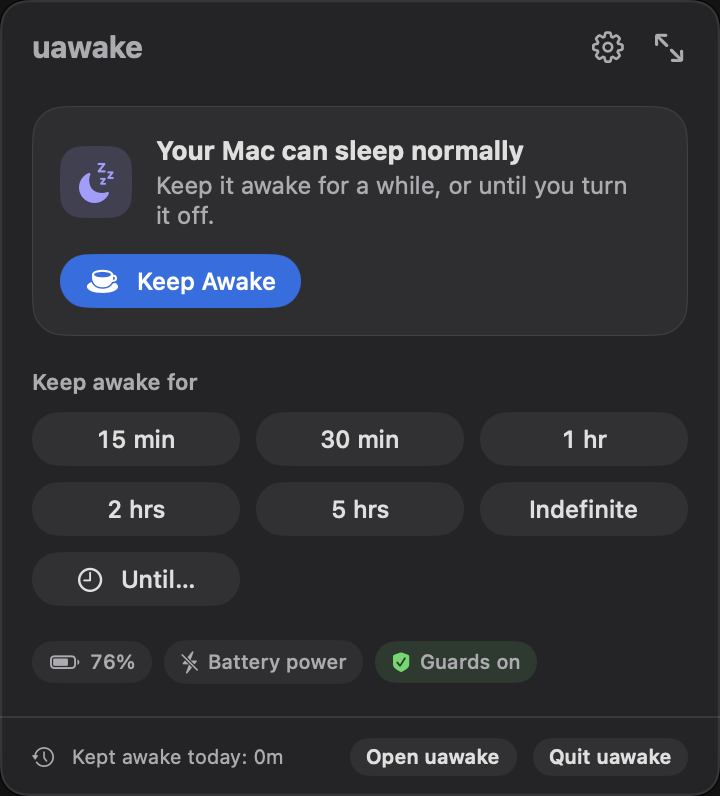
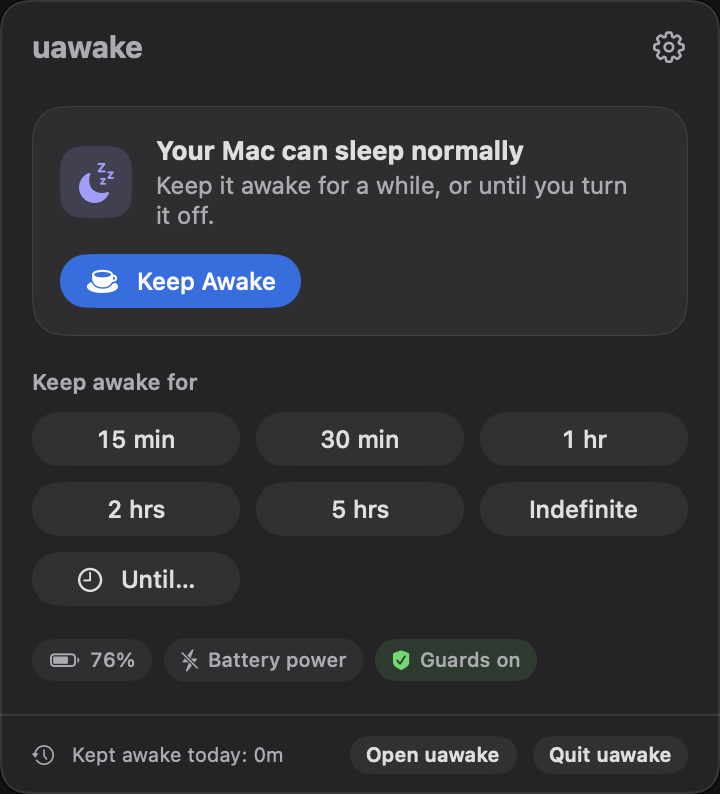
1.0.0-alpha.2: version 1.0.0 (2), changelog, README, tester guide, screenshots
- Config/Version.xcconfig: 1.0.0, build 2.
- CHANGELOG: 1.0.0-alpha.2 (rules engine, Rules UI, popover and window fixes);
  0.1.0 entry dated as 0.1.0-alpha.1.
- README: rules features, 1.0 alpha status, link to the tester guide.
- docs/TESTERS.md: install, what to try, how to report.
- Screenshots regenerated for the release.

diff --git a/README.md b/README.md
@@ -3,11 +3,12 @@
 **uawake — keep your Mac awake.**
 
 A free, open-source macOS menu bar app by Underscore Technology. Click once to keep your Mac
-awake, for as long as you need, and uawake tells you what is keeping it awake and why. Safety
+awake, for as long as you need, or let rules do it for you: while you present, are on a call,
+build or download. uawake tells you what is keeping it awake and why. Safety
 guards stop sessions at low battery, in Low Power Mode, when your Mac gets too warm, or after a
 maximum duration.
 
-**Status:** 0.1.0 alpha, in internal testing ([Testing the alpha](#testing-the-alpha)). MIT licence.
+**Status:** 1.0.0 alpha 2, in internal testing ([Testing the alpha](#testing-the-alpha)). MIT licence.
 
 <p>
   <img src="docs/design/screenshots/popover-one-session-light.png" width="300" alt="The uawake popover keeping the Mac awake for one hour, in light mode">
@@ -15,12 +16,19 @@ maximum duration.
 </p>
 <img src="docs/design/screenshots/main-overview-light.png" width="620" alt="The uawake window's Overview">
 
-## Features (0.1)
+## Features (1.0)
 
+- Rules keep the Mac awake automatically while their conditions hold: an app open or in front,
+  a call, audio playing, the processor or network busy, the power adapter, an external display,
+  a USB or Bluetooth device, a Wi-Fi network, a calendar event or a schedule. Match all or any,
+  with active hours and a linger time.
+- Templates to start from (Presenting, On a call, Building, Downloading, Plugged in at the office),
+  a live Test view in the editor, and Pause Rules.
 - Keep the Mac awake indefinitely, for a preset or custom duration, or until a time of day.
 - Several sessions at once, each with a reason you can see in `pmset -g assertions`.
 - Optional display-awake mode, countdown in the menu bar, and a global shortcut.
-- Safety guards: battery limit, Low Power Mode, thermal pressure and a maximum duration, all on by default.
+- Safety guards: battery limit, Low Power Mode, thermal pressure and a maximum duration, all on
+  by default. Guards win over rules too.
 - Notifications before a session ends (with Extend and Stop) and when a guard stops one.
 - Pauses for fast user switching; carries on after the Mac wakes.
 - `uawake://` URL scheme for scripts and automation.
@@ -43,6 +51,7 @@ notifications or launch at login) again after you install it. Updates are manual
 releases arrive: download the new DMG and replace the app in Applications.
 
 Report bugs and ideas in [Issues](https://github.com/Underscoretec/uawake/issues/new/choose).
+Testers: see [docs/TESTERS.md](docs/TESTERS.md) for what to try and what to include in a report.
 
 ## Install from source
 
@@ -75,8 +84,8 @@ From Terminal: `open "uawake://activate?duration=2h&reason=Build"`. Invalid URLs
 
 - No analytics, telemetry or tracking. Nothing about you or your Mac leaves it.
 - The only network traffic is the update check (Sparkle), which you can turn off.
-- uawake does not use the camera or microphone. From 1.0, an optional "On a call" rule will use
-  the camera entitlement only to detect whether a camera is in use; it never reads video.
+- uawake never records from the camera or microphone. The optional "On a call" rule only checks
+  whether a camera or microphone is in use.
 - Session history (from 1.2) stays on your Mac.
 
 ## Development

diff --git a/docs/TESTERS.md b/docs/TESTERS.md
@@ -1,0 +1,58 @@
+# Testing uawake 1.0 alpha
+
+Thanks for testing. This alpha adds **rules**: uawake keeps your Mac awake by itself while
+something you care about is happening. Give it a few days of normal work and tell us what
+surprises you.
+
+## Install
+
+Alpha builds are unsigned and not notarized, so macOS blocks them the first time.
+
+1. Download `uawake-1.0.0-alpha.2.dmg` from
+   [GitHub Releases](https://github.com/Underscoretec/uawake/releases).
+2. Open it and drag uawake to Applications (replace any older copy).
+3. Open uawake. macOS says it can't verify the app; click **Done**.
+4. Open System Settings › Privacy & Security, scroll down, click **Open Anyway** next to the
+   uawake message, and confirm.
+
+uawake lives in the menu bar. Click the icon to turn it on or off; right-click or Option-click
+for the popover. If the icon is hidden behind the notch, open uawake again from Applications to
+get its window.
+
+## What to try
+
+Rules are in the main window (popover › **Open uawake** › Rules). Each rule's assertion shows in
+Terminal as `uawake: Rule: <name>` in `pmset -g assertions`.
+
+- **Each template.** Add every template and check it starts and stops when it should:
+  - *Presenting*: put Keynote or PowerPoint in front.
+  - *On a call*: join a Teams or FaceTime call (camera or microphone in use).
+  - *Building*: open Xcode, or keep the processor busy.
+  - *Downloading*: download something large.
+  - *Plugged in at the office*: plug in power while on the office Wi-Fi.
+- **A Wi-Fi rule at the office.** Make a rule for the office Wi-Fi network. uawake asks for
+  Location only when you press the button (macOS needs it to read Wi-Fi names). Leave the office
+  and check the rule stops.
+- **A call rule.** Join a real call; the session should start within a few seconds and end a
+  little after you hang up.
+- **A download rule.** Start a large download with the editor's **Test** tab open: the network
+  condition should turn to **Met**, and back after the download ends.
+- **Pause.** Pause Rules for an hour, until tomorrow and until resumed. Manual sessions must keep
+  running while rules are paused.
+- **Guards.** On battery, turn on Low Power Mode or let the battery fall below the limit: rule
+  and manual sessions should stop with a red banner. A rule stays off until five minutes after
+  the guard clears.
+- Everyday use: sleep and wake, closing the lid, switching users, a second display.
+
+## Reporting a problem
+
+Open a [GitHub issue](https://github.com/Underscoretec/uawake/issues/new/choose), or post in our
+Teams channel. Please include:
+
+- what you did, what you expected and what happened;
+- the uawake version (main window › About) and your macOS version (Apple menu › About This Mac);
+- the output of `pmset -g assertions` in Terminal, taken while the problem is happening;
+- for a rule, a screenshot of the rule in the editor.
+
+Don't paste anything private from `pmset` output you'd rather not share (it lists other apps'
+names); trim it to the `uawake` lines if you prefer.

diff --git a/CHANGELOG.md b/CHANGELOG.md
@@ -6,7 +6,29 @@ All notable changes to uawake are recorded here. The format follows
 
 ## [Unreleased]
 
-## [0.1.0] - Unreleased
+## [1.0.0-alpha.2] - 2026-11-11
+
+Second internal alpha (version 1.0.0, build 2): the rules engine. Unsigned; the 8-hour
+performance soak is still to come before 1.0.
+
+### Added
+- Rules: keep the Mac awake automatically while conditions hold. Conditions: an app is open or
+  in front, a call (camera or microphone in use), audio playing, the processor or network busy,
+  the power adapter, an external display, a USB or Bluetooth device, a Wi-Fi network, a calendar
+  event, and a schedule. Match all or any, active hours, a linger time, and system or display mode.
+- Rules section in the main window: templates (Presenting, On a call, Building, Downloading,
+  Plugged in at the office), an editor with a live Test view, and Pause Rules.
+- Rules strip and rule sessions in the popover; guards win over rules, and a rule stopped by a
+  guard waits until five minutes guard-free.
+- Bluetooth, Location (Wi-Fi name) and Calendar permissions, asked only from explicit buttons.
+
+### Fixed
+- The popover sizes to its full content, up to the space below the menu bar, and scrolls only
+  beyond that; it has an "Open uawake" button in the footer.
+- The popover closes on a click outside it, an app switch or Esc.
+- While the main window is open, uawake shows in the Dock and ⌘-Tab; closing it (⌘W) removes it.
+
+## [0.1.0-alpha.1] - 2026-11-08
 
 First internal alpha.
 
